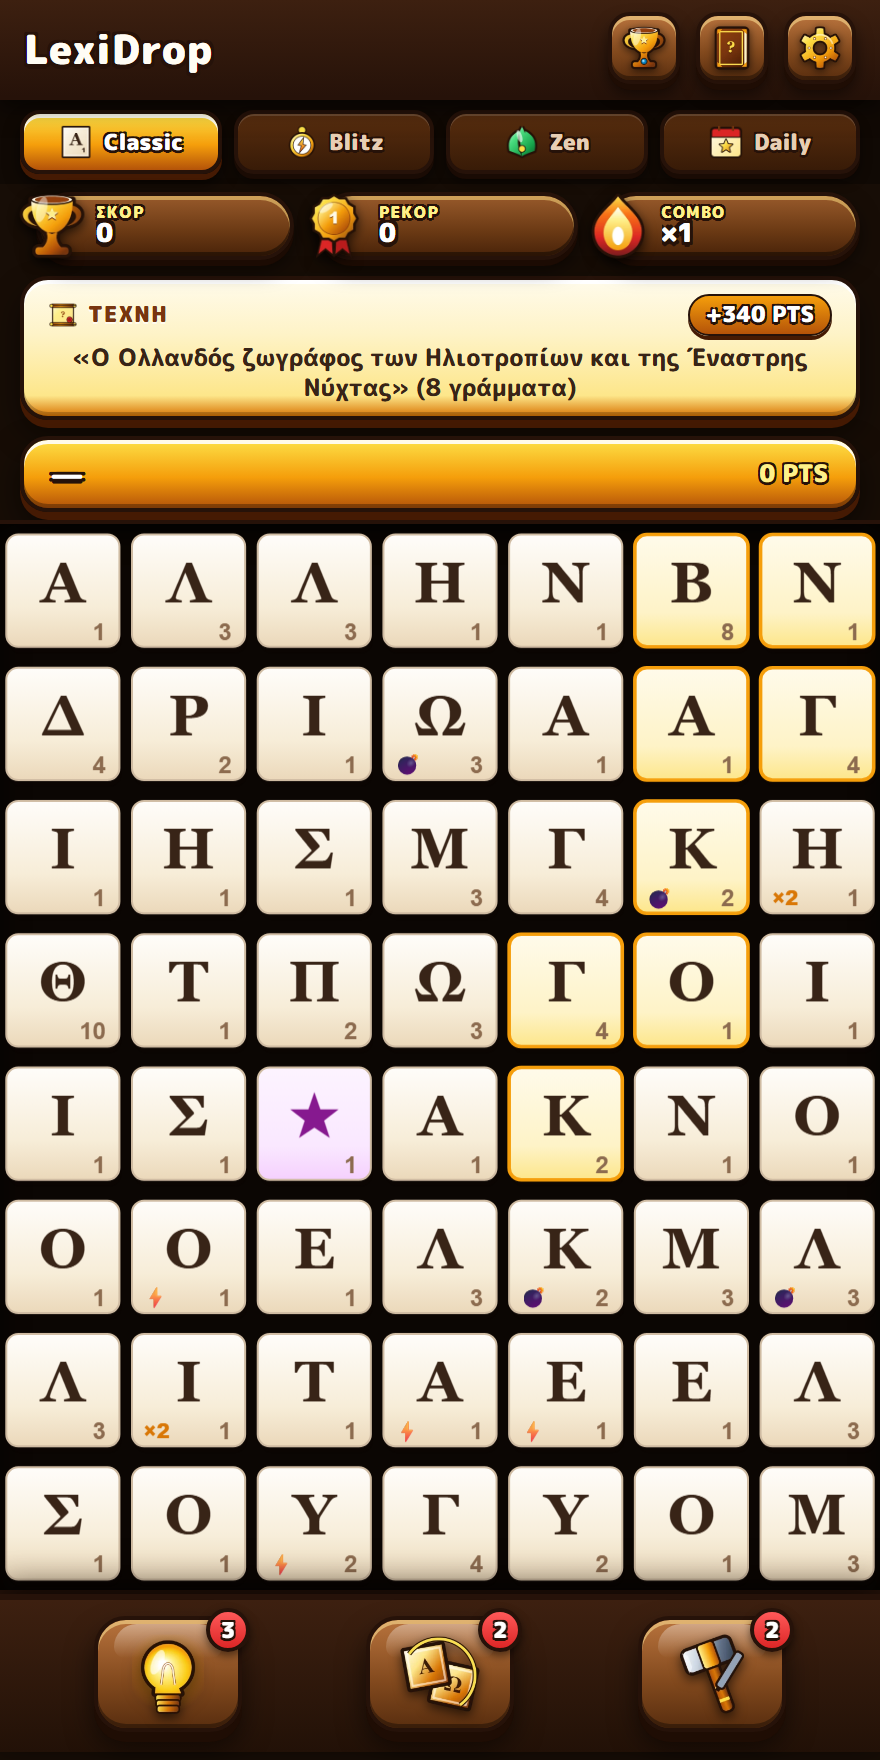
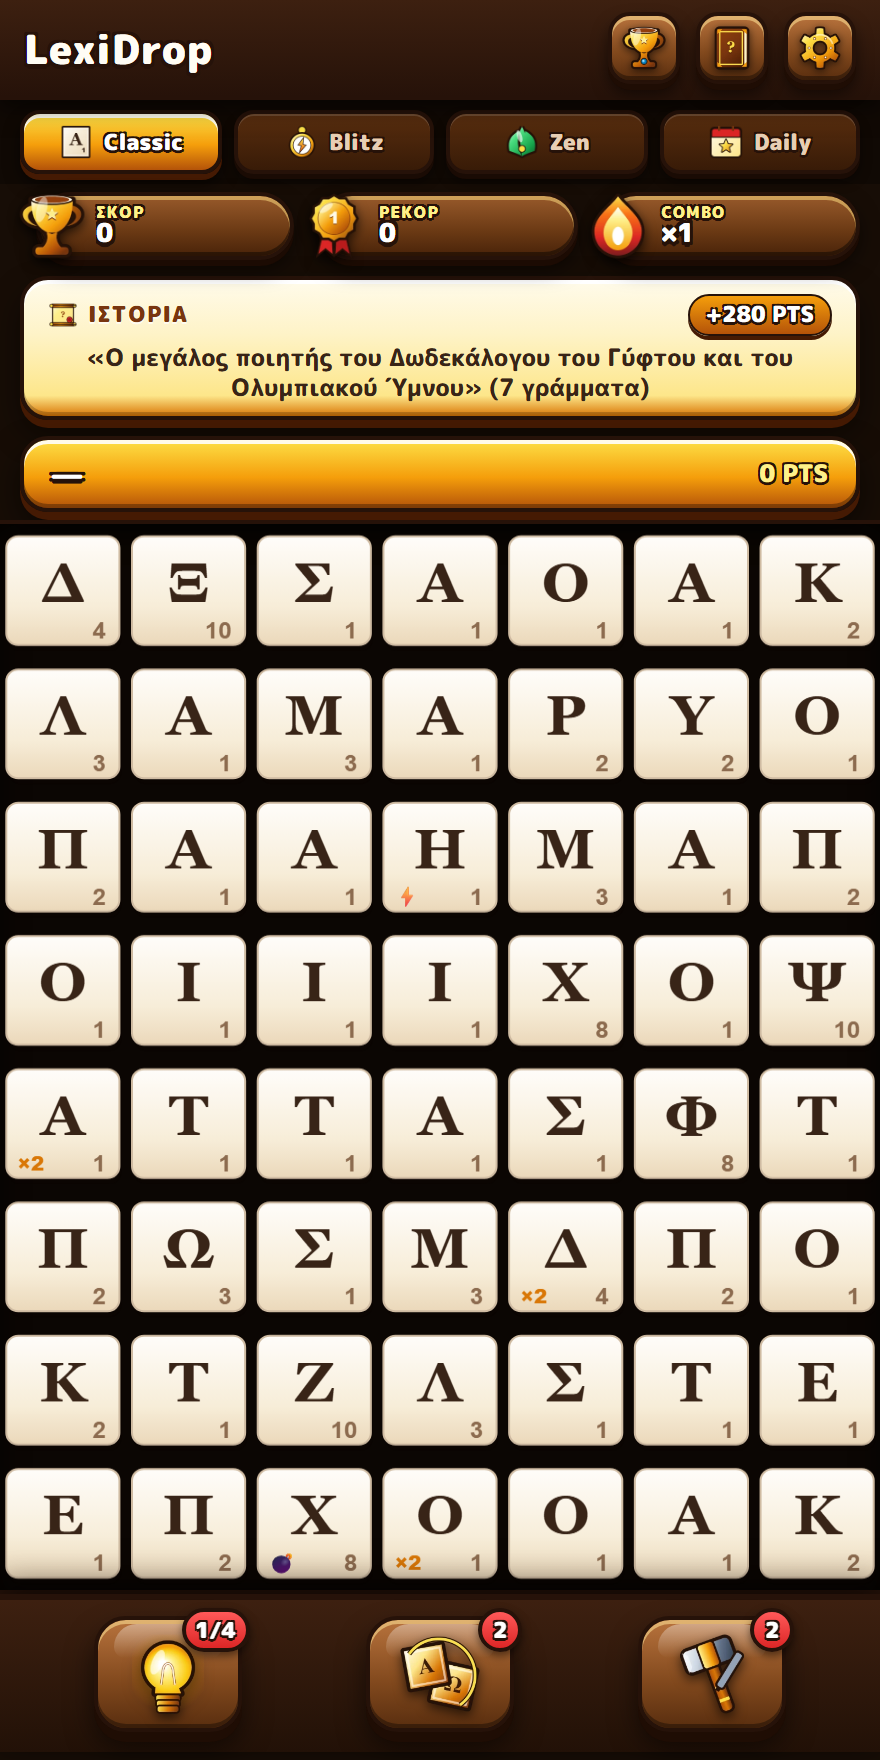
v1.4.0: Updated screenshots, version.json, and release documentation

diff --git a/README.md b/README.md
@@ -26,7 +26,7 @@
   <a href="https://jemangr.app">
     <img src="https://img.shields.io/badge/🚀_Portfolio-jemangr.app-orange?style=for-the-badge" alt="jemangr.app" />
   </a>
-  <img src="https://img.shields.io/badge/Version-v1.3.0-brightgreen?style=for-the-badge" alt="Version v1.3.0" />
+  <img src="https://img.shields.io/badge/Version-v1.4.0-brightgreen?style=for-the-badge" alt="Version v1.4.0" />
   <img src="https://img.shields.io/badge/Package-app.jemangr.lexidrop-blue?style=for-the-badge" alt="Package app.jemangr.lexidrop" />
   <img src="https://img.shields.io/badge/License-All%20Rights%20Reserved-red?style=for-the-badge" alt="License" />
 </p>
@@ -61,7 +61,11 @@
 
 ---
 
-## ✨ Χαρακτηριστικά & Δυνατότητες (v1.3.0)
+## ✨ Χαρακτηριστικά & Δυνατότητες (v1.4.0)
+
+- 💡 **Κλιμακωτές Υποδείξεις 4 Βαθμίδων (Progressive Hints):** Η λάμπα αποκαλύπτει σταδιακά βοήθεια (1ο γράμμα ➔ 2 γράμματα ➔ 3 γράμματα ➔ ολόκληρη λέξη) με δυνατότητα διαφήμισης μετά την 3η πίστα.
+- 🔴 **Κουμπί Κλεισίματος Ρυθμίσεων (✕):** Μόνιμο κόκκινο 3D κουμπί στην πάνω δεξιά γωνία του παραθύρου ρυθμίσεων χωρίς ανάγκη κύλισης (scroll).
+- 🧩 **Ισορροπημένο Ταμπλό:** Πλήρης ομοιομορφία στα γράμματα του ταμπλό για αυθεντική εμπειρία αναζήτησης λέξεων χωρίς spoilers.
 
 - 🎨 **Bouncy Cartoon 3D UI (Artisan Workshop):** Με σκαλιστό μαόνι, ορειχάλκινα highlights, 3D pillow buttons και offline ελληνική cartoon γραμματοσειρά GameDisplay (M PLUS Rounded 1c).
 - 🔠 **Artisan Word Tiles Mechanics:** Σύρετε το δάχτυλό σας προς οποιαδήποτε κατεύθυνση (οριζόντια, κάθετα, διαγώνια) για να σχηματίσετε έγκυρες λέξεις στο ταμπλό 7×8.
